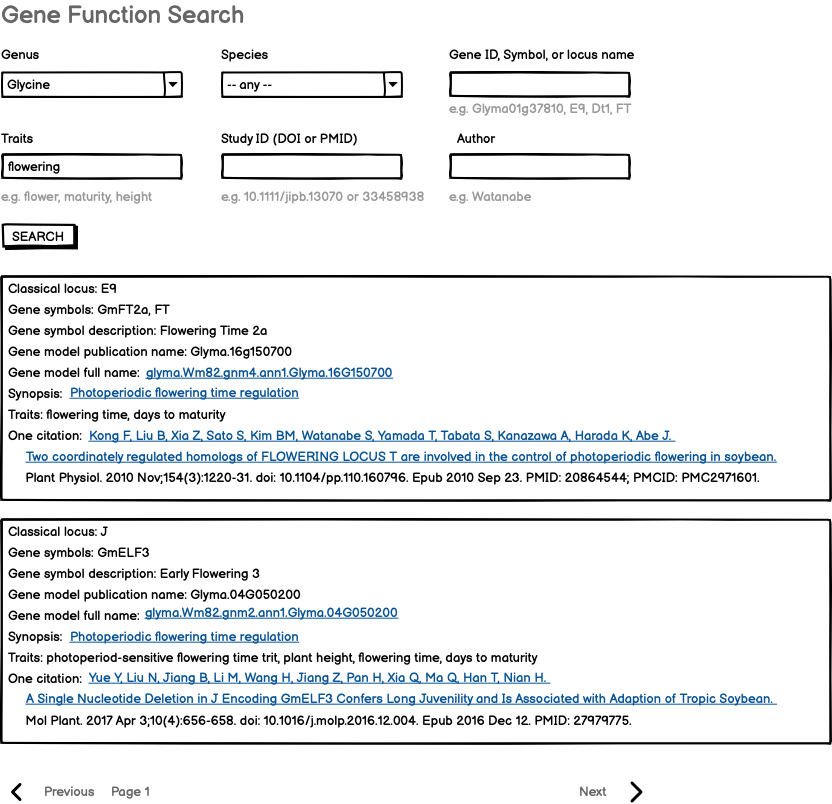
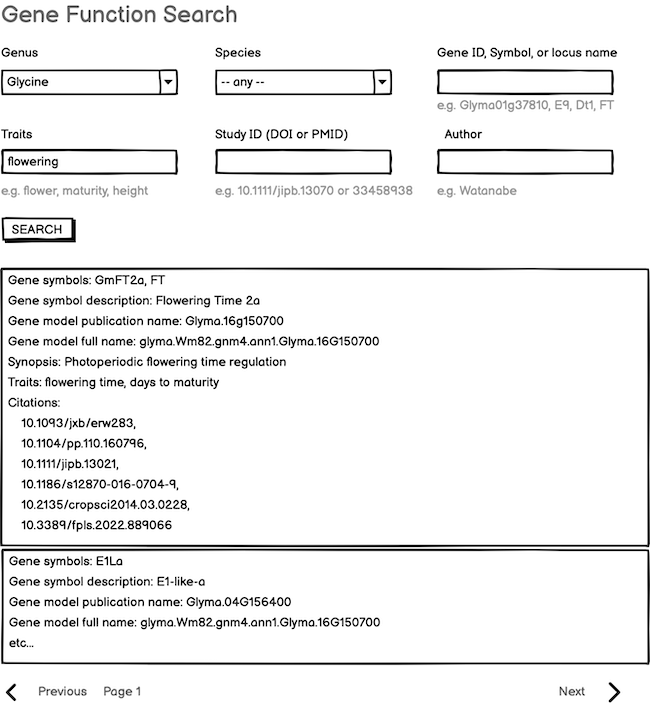
Revision of the gene-function-search spec

Changed region(s): [[0.0, 0.0625, 1.0, 1.0], [0.0, 0.0, 0.3692, 0.0312], [0.8615, 0.3438, 1.0, 0.5]]

diff --git a/gene-function-search/README.md b/gene-function-search/README.md
@@ -3,11 +3,24 @@
 This is the requirements doc for the LIS, SoyBase, and PeanutBase gene function search, to be implemented on the respective Jekyll web sites. This should serve gene function information that is being curated at, for example, [https://data.legumeinfo.org/Glycine/max/gene_functions/](https://data.legumeinfo.org/Glycine/max/gene_functions/). Note though: the data will need to be incorporated into the Mines before this search functionality can be implemented.
 
 ## Specification version
-Version: 0.9.0
+Version: 0.9.1
 
 <details>
 
 This specification was completed in late June, 2023. The specification preceded availability of the data in the mines, so additional review and revision of the spec may be needed before the first implementation.
+
+Revision 2025-09-29, after initial implementation of web component and Mine report page:
+
+[https://mines.dev.lis.ncgr.org/jekyll-genefunction/web-components/user/lis-gene-function-search-element.html](https://mines.dev.lis.ncgr.org/jekyll-genefunction/web-components/user/lis-gene-function-search-element.html)
+
+[https://mines.dev.lis.ncgr.org/minimine-genefunction-comments/genefunction:LjNIN](https://mines.dev.lis.ncgr.org/minimine-genefunction-comments/genefunction:LjNIN)
+
+- Classical Locus: Let's not display this in the Web Component report, since it is usually null (though it would be good to include in the Mine symbol report page).
+- Gene Symbols: Preferably, all symbols would be displayed for a given record. For example, for the record for publication 10.1104/pp.15.00164, the symbols would be "EIN2, Skl1". If there are technical reasons to restrict to a single symbol (for example, if one symbol is used for linkouts to a Mine report page), then the heading should be singular: Primary gene symbol.
+- Gene model pub name: We should display this. For publication 10.1104/pp.15.00164, it would be Medtr7g101410.
+- Citations: Currently, DOIs for all citations are displayed. I think that is fine; but in that case, the category heading should be "Citations" rather than "One ctation"
+- Linkouts: probably one from Gene symbol (linking to the Mine symbol report page) and one from Gene model full name (linking to all places a gene model ID can go).
+
 </details>
 
 ## Input
@@ -47,13 +60,14 @@ The output will be in a tabular layout, with the following content in each gene-
 - Gene model full name: glyma.Wm82.gnm4.ann1.Glyma.16G150700  [Links to linkout box; same link as for Synopsis]
 - Synopsis: Photoperiodic flowering time regulation  [Links to linkout box; same link as for Gene model full name]
 - Traits: flowering time, days to maturity  [Flatten if a list is present]
-- One citation: Kong F. Liu B, Xia Z, Sato S, Kim BM. Watanabe S, Yamada T. Tabata S, Kanazawa A, Harada K, Abe J.
-    Two coordinately regulated homologs of FLOWERING LOCUST are involved in the control of photoperiodic flowering in soybean.
-    Plant Physiol. 2010 Nov; 154(3):1220-31. doi: 10.1104 /pp.110.160796. Epub 2010 Sep 23. PMID: 20864544; PMCID: PMC2971601.
-  [Link will go to publication page in LegumeMine]
 
 ## Implementation notes
 
 - the query will be a GraphQL query run by a web component, which in turn runs an InterMine path query against LegumeMine.
 - the linkouts are not specified here -- those are the purview of the Linkout Service specification, which also specifies how they are implemented on web components like this.
+
+## Changes during implementation in fall 2025
+- Because "Classical locus" is present in so few of the data records, let's omit this in the web copmponent report. Do include it on the Mine report page however.
+- Citation: list of DOIs, rather than presenting the (full) first citation.
+
 
